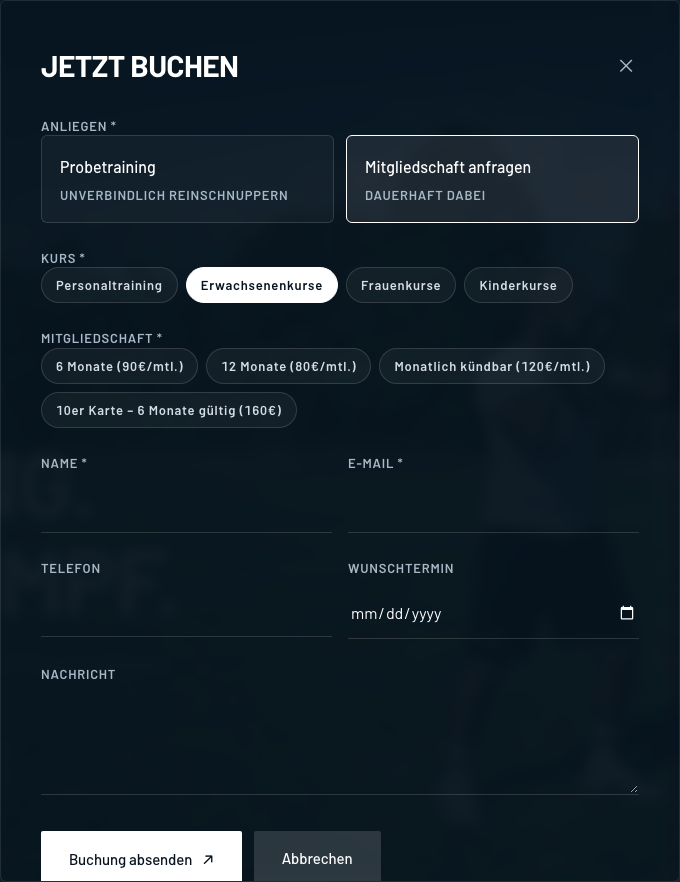
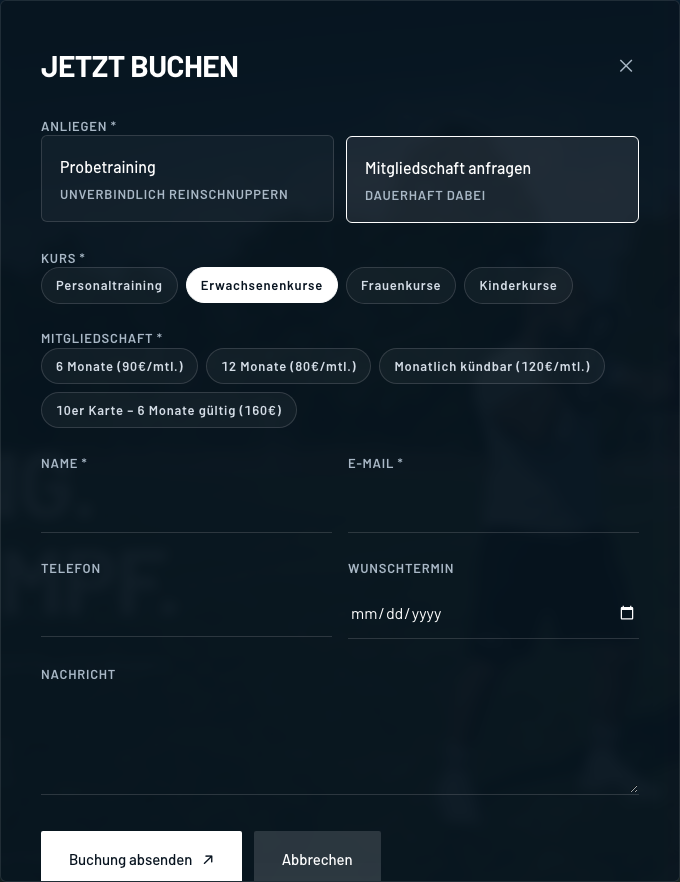
feat(cinematic): Datenschutzhinweis am Buchungsformular (Art. 13 DSGVO)
Kein Cookie-Banner: die oeffentliche Seite setzt auf /, /impressum,
/datenschutz und den Zahlungsseiten null Cookies, null localStorage und
null sessionStorage und laedt vor dem Klick auf "Karte laden" keinen
einzigen Fremd-Host. Damit greift Paragraf 25 TDDDG nicht; die Karte hat
ihre Einwilligung bereits per Zwei-Klick-Loesung.

Was dagegen fehlte, ist der Hinweis an der Erhebungsstelle: eine Zeile
unter den Formular-Buttons, die auf die Datenschutzerklaerung verlinkt.
Payload unveraendert (9/9 Tests gruen).

diff --git a/components/site/booking/BookingDialog.tsx b/components/site/booking/BookingDialog.tsx
@@ -13,6 +13,7 @@ import {
   buildBookingPayload,
   courseValue,
 } from "./payload";
+import { UI } from "@/content/site";
 import type { BookingPreset } from "../SiteShell";
 
 const FOCUSABLE =
@@ -403,6 +404,14 @@ export function BookingDialog({
                 Abbrechen
               </button>
             </div>
+
+            <p className="sl-form-privacy">
+              {UI.privacyNote}{" "}
+              <a href="/datenschutz" target="_blank" rel="noopener noreferrer">
+                {UI.privacyLink}
+              </a>
+              .
+            </p>
           </form>
         )}
       </div>

diff --git a/app/(site)/site.css b/app/(site)/site.css
@@ -1705,6 +1705,20 @@ textarea.sl-input {
   gap: 12px;
   padding-top: 10px;
 }
+.sl-form-privacy {
+  margin: 0;
+  font-size: 13px;
+  line-height: 1.5;
+  color: var(--sl-mute);
+}
+.sl-form-privacy a {
+  color: var(--sl-body);
+  text-decoration: underline;
+  text-underline-offset: 3px;
+}
+.sl-form-privacy a:hover {
+  color: var(--sl-ink);
+}
 @media (max-width: 560px) {
   .sl-field-row,
   .sl-choice-grid {

diff --git a/content/site.ts b/content/site.ts
@@ -252,6 +252,9 @@ export const FOOTER = {
 export const UI = {
   skip: "Zum Inhalt springen",
   aiChip: "KI-bearbeitet",
+  /** Art. 13 DSGVO: Hinweis an der Stelle, an der die Daten erhoben werden. */
+  privacyNote: "Wie wir deine Daten verarbeiten, steht in der",
+  privacyLink: "Datenschutzerklärung",
 } as const;
 
 export const SERVICES_BY_ID = Object.fromEntries(
